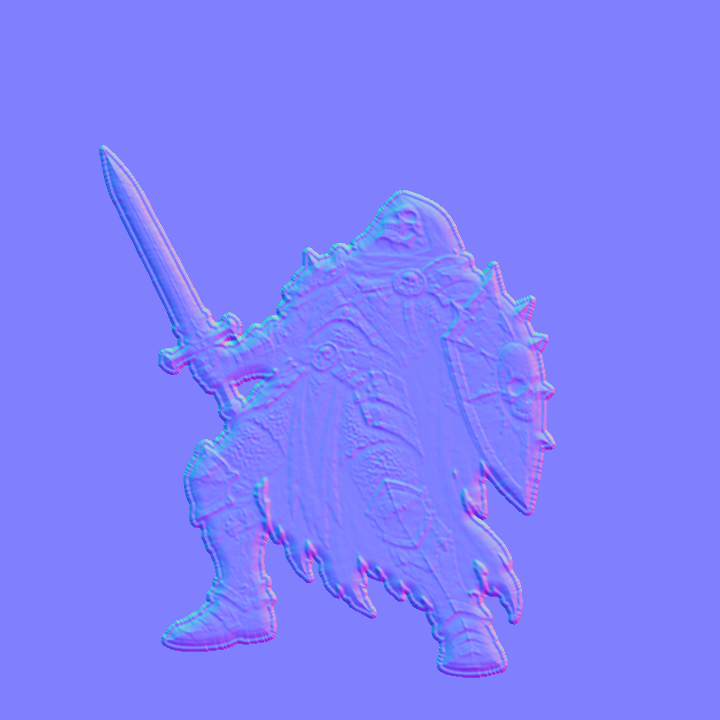
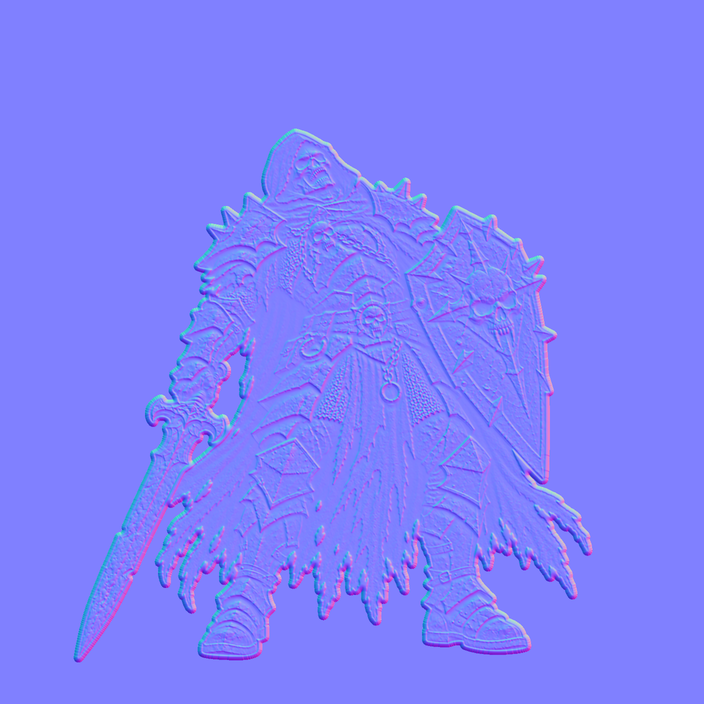
Veilleur Os en haute définition (cinq images), mise à l'échelle automatique des poses

Changed region(s): [[0.0938, 0.1875, 0.8438, 0.9375]]

diff --git a/tools/make_monster.py b/tools/make_monster.py
@@ -1,6 +1,7 @@
 #!/usr/bin/env python3
 """Découpe la PLANCHE d'un monstre « Atlas Noir » et écrit les cinq webp du jeu.
 Usage : python3 tools/make_monster.py <id> planche.png [--sans-liseré]
+     ou : python3 tools/make_monster.py <id> repos.png attaque.png coup.png attaque2.png mort.png   (cinq images, une par pose)
   → assets/monsters/<id>.webp, <id>_attack.webp, <id>_hit.webp, <id>_attack2.webp, <id>_dead.webp (carrés, RGBA, même taille)
     + une carte de normales par pose (<id>_n.webp, <id>_attack_n.webp…) pour l'éclairage en relief (import : compress/normal_map=1, mipmaps).
 
@@ -59,6 +60,58 @@ def split(sheet):
         y0, y1 = max(0, ys.min() - 4), min(al.shape[0], ys.max() + 5)
         x0, x1 = max(0, xs.min() - 4), min(al.shape[1], xs.max() + 5)
         poses.append(clean(rgb[y0:y1, x0:x1], solid[y0:y1, x0:x1], (al * mine)[y0:y1, x0:x1]))
+    return poses
+
+def _scales(files):
+    """Échelle de chaque pose par rapport à l'attente (images dessinées séparément : le monstre n'y a pas toujours la même taille).
+    Appariement de points SIFT sur les détails rigides (crânes, boucles, écailles) + similitude RANSAC ; 1.0 si l'appariement échoue."""
+    try:
+        import cv2
+    except ImportError:
+        print("opencv absent : poses laissées à leur échelle d'origine")
+        return [1.0] * len(files)
+    sift = cv2.SIFT_create(4000)
+    def feat(f):
+        im = cv2.imread(str(f), cv2.IMREAD_UNCHANGED)
+        g = cv2.cvtColor(im[..., :3], cv2.COLOR_BGR2GRAY)
+        return sift.detectAndCompute(g, (im[..., 3] > 200).astype(np.uint8) * 255)
+    k0, d0 = feat(files[0])
+    out = [1.0]
+    for f in files[1:]:
+        k, d = feat(f)
+        sc = 1.0
+        if d is not None and d0 is not None and len(k) > 10:
+            good = [m for m, n in cv2.BFMatcher().knnMatch(d, d0, k=2) if m.distance < 0.75 * n.distance]
+            if len(good) >= 8:
+                src = np.float32([k[m.queryIdx].pt for m in good]); dst = np.float32([k0[m.trainIdx].pt for m in good])
+                M, inl = cv2.estimateAffinePartial2D(src, dst, method=cv2.RANSAC, ransacReprojThreshold=6)
+                if M is not None and inl is not None and int(inl.sum()) >= 10:
+                    sc = float(np.sqrt(abs(np.linalg.det(M[:, :2]))))
+        out.append(sc if 0.8 < sc < 1.25 else 1.0)
+    return out
+
+def split_files(files):
+    """Une image par pose (déjà sur fond transparent), dans l'ordre Attente, Attaque, Impact, Attaque alternative, Mort.
+    Les poses sont remises à l'échelle de l'attente (voir _scales)."""
+    scales = _scales(files)
+    print("échelles des poses (par rapport à l'attente) :", ", ".join("%.3f" % x for x in scales))
+    poses = []
+    for f, sc in zip(files, scales):
+        img = Image.open(f).convert("RGBA")
+        if abs(sc - 1.0) > 0.02:
+            r = img.resize((round(img.width * sc), round(img.height * sc)), Image.LANCZOS)    # LANCZOS sur RGBA prémultiplié : pas de frange
+            pm = np.asarray(img).astype(np.float32) / 255; pm[..., :3] *= pm[..., 3:4]
+            pm = np.asarray(Image.fromarray((pm * 255).astype(np.uint8), "RGBA").resize(r.size, Image.LANCZOS)).astype(np.float32) / 255
+            a_ = pm[..., 3:4]; pm[..., :3] = np.where(a_ > 1e-4, pm[..., :3] / np.maximum(a_, 1e-4), 0)
+            a = np.clip(pm, 0, 1)
+        else:
+            a = np.asarray(img).astype(np.float32) / 255
+        rgb, al = a[..., :3], a[..., 3]
+        mine = al > 0.08
+        ys, xs = np.where(al > 0.5)
+        y0, y1 = max(0, ys.min() - 4), min(al.shape[0], ys.max() + 5)
+        x0, x1 = max(0, xs.min() - 4), min(al.shape[1], xs.max() + 5)
+        poses.append(clean(rgb[y0:y1, x0:x1], (al > 0.5)[y0:y1, x0:x1], (al * mine)[y0:y1, x0:x1]))
     return poses
 
 def clean(rgb, solid, soft):
@@ -127,8 +180,9 @@ def main():
     global KEEP_OUTLINE
     if "--sans-liseré" in sys.argv:
         sys.argv.remove("--sans-liseré"); KEEP_OUTLINE = False
-    mid, sheet = sys.argv[1], sys.argv[2]
-    poses = split(sheet)
+    mid = sys.argv[1]
+    files = sys.argv[2:]
+    poses = split_files(files) if len(files) == 5 else split(files[0])     # 5 images (une par pose) ou une planche
     st = [stats(p[1]) for p in poses]
     idle_cx, idle_h = st[0]["cx"], st[0]["bottom"] - st[0]["top"] + 1
     # carré : tout doit tenir autour du centre de masse de l'attente et entre le sol et le plafond
@@ -150,8 +204,11 @@ def main():
         out = ROOT / "assets/monsters" / f"{mid}{suf}.webp"
         Image.fromarray((canvas * 255 + 0.5).astype(np.uint8), "RGBA").save(out, lossless=True, quality=100, method=6)
         nm = normal_map(canvas[..., :3], canvas[..., 3])
+        nim = Image.fromarray((nm * 255 + 0.5).astype(np.uint8), "RGB")
+        if side > 1000:                                          # le relief n'a pas besoin de la définition du dessin : moitié moins de mémoire vidéo
+            nim = nim.resize((side // 2, side // 2), Image.LANCZOS)
         nout = ROOT / "assets/monsters" / f"{mid}{suf}_n.webp"
-        Image.fromarray((nm * 255 + 0.5).astype(np.uint8), "RGB").save(nout, lossless=True, quality=100, method=6)
+        nim.save(nout, lossless=True, quality=100, method=6)
         print("écrit", out.relative_to(ROOT), "+ normales")
     print(f"carré {side} px ; pose d'attente haute de {idle_h} px = {idle_h / side:.3f} du carré")
 

diff --git a/docs/TECHNIQUE.md b/docs/TECHNIQUE.md
@@ -522,10 +522,11 @@ Après TripoSR, `Converter._bake_command` copie `res://tools_py/bake_texture.py`
 - Anti-scintillement des monstres Atlas Noir : les cinq poses passent par `python3 tools/make_monster.py <id> planche.png` (découpe, liseré blanc « autocollant » conservé, couleurs prolongées sous l'alpha, pieds alignés, aucun flou) ; mipmaps activés dans les `.webp.import` ; `EntityLayer` pose la méta `atlas` (présence de `<id>_attack.webp`) et réduit la respiration à 30 %. `tools/shot_shimmer.gd` mesure la différence moyenne entre images consécutives (de 0,0028 à 0,0018 sur le Veilleur Os). Règle valable pour tous les futurs monstres.
 - Fossoyeur sans visage (`mon_fossoyeur`) : même procédure (make_monster.py, catégorie « Monstres Atlas Noir », `TIER2`, `Resist.FAMILY`, effet « affaiblissement » dans `MonsterEffects.FAMILY`, hauteur `fossoyeur` 1,75 car sa silhouette occupe moins de l'image). Ajouté à la Crypte Profonde (case 7,3) pour l'essai.
 - Monstres Atlas Noir, rendu : images à la résolution d'origine (1536 px, webp sans perte, plus de réduction ni de flou : `make_monster.py`) ; sprites ÉCLAIRÉS (`EntityLayer._lit_material` : ombrage par pixel, rugosité 1, léger auto-éclairage 0,22) donc sensibles à la lumière d'ambiance du niveau, à la torche du groupe et aux lampes ; barre de vie fixe : `CombatStage._pose_envelope` prend le sommet le plus haut de toutes les poses debout (repos, attaques, coup) et la barre s'y pose, sans bouger d'une pose à l'autre.
-- Planches de monstres (format de livraison depuis le 2026-10-31) : une seule image RGBA à fond transparent, un liseré blanc autour de chaque pose, dans l'ordre (haut gauche → bas droite) Attente, Attaque, Impact, Attaque alternative, Mort. `tools/make_monster.py <id> planche.png` découpe les cinq poses (noyaux érodés, chaque pixel rattaché au noyau le plus proche, donc deux liserés qui se touchent ne fusionnent pas), GARDE le liseré blanc des planches (choix de l'auteur ; l'option `--sans-liseré` retire le liseré relié au vide et ses restes piégés dans les pointes de tissu), écarte la poussière, puis recompose les poses à la même échelle dans un carré (pieds sur 94 % de la hauteur, centre de masse de l'attente au milieu), sans agrandissement ni flou : la résolution est celle de la planche (≈ 600 px de haut pour un monstre debout, carré d'environ 770 px). La hauteur affichée se règle par la ligne du monstre dans `EntityLayer.MON_HEIGHTS` (le script affiche la part du carré occupée par la pose d'attente ; ligne = ancienne ligne × ancienne part / nouvelle part : `veilleur` 1,77 (nouvelle planche), `fossoyeur` 1,71). Veilleur Os et Fossoyeur sans visage ont été réimportés ainsi à la place des premières versions.
+- Planches de monstres (format de livraison depuis le 2026-10-31) : une seule image RGBA à fond transparent, un liseré blanc autour de chaque pose, dans l'ordre (haut gauche → bas droite) Attente, Attaque, Impact, Attaque alternative, Mort. `tools/make_monster.py <id> planche.png` découpe les cinq poses (noyaux érodés, chaque pixel rattaché au noyau le plus proche, donc deux liserés qui se touchent ne fusionnent pas), GARDE le liseré blanc des planches (choix de l'auteur ; l'option `--sans-liseré` retire le liseré relié au vide et ses restes piégés dans les pointes de tissu), écarte la poussière, puis recompose les poses à la même échelle dans un carré (pieds sur 94 % de la hauteur, centre de masse de l'attente au milieu), sans agrandissement ni flou : la résolution est celle de la planche (≈ 600 px de haut pour un monstre debout, carré d'environ 770 px). La hauteur affichée se règle par la ligne du monstre dans `EntityLayer.MON_HEIGHTS` (le script affiche la part du carré occupée par la pose d'attente ; ligne = ancienne ligne × ancienne part / nouvelle part : `veilleur` 1,59 (3e version), `fossoyeur` 1,71). Veilleur Os et Fossoyeur sans visage ont été réimportés ainsi à la place des premières versions.
 - Veuve des Cryptes (`mon_veuve`) et Porte-Cercueil (`mon_porte_cercueil`) : intégrés comme le Fossoyeur, depuis leurs planches (liseré blanc conservé). Hauteurs `MON_HEIGHTS` : `veuve` 1,74, `cercueil` 1,5 (carrés de 736 et 784 px). `DungeonGenerator.TIER2`, catégorie d'icônes « Monstres Atlas Noir », `Resist.FAMILY` (veuve : ombre, nature, faible au sacré et au feu ; porte-cercueil : ombre, physique, faible au sacré et au feu), `MonsterEffects.FAMILY` (veuve : poison 40 % / 3 tours ; porte-cercueil : étourdissement 20 % / 1 tour). Donjon d'origine : `cercueil1` en (10,1) à la Crypte Profonde, `veuve1` en (7,3) au Sanctuaire Interdit.
 - Éclairage des monstres Atlas Noir (2026-10-31) : en plus du matériau éclairé, `make_monster.py` écrit une carte de normales par pose (`<id>[_attack|_attack2|_hit|_dead]_n.webp`, relief tiré de la luminance du dessin + silhouette arrondie sur 16 px ; imports `compress/normal_map=1`, mipmaps, sans perte). `EntityLayer._lit_material` la charge si elle existe (`normal_texture`) et ajoute un liseré de lumière (`rim` 0,25) : la torche et les lampes sculptent le monstre au lieu de l'éclairer à plat. Mort : la pose « à terre » reprenait l'auto-éclairage (`emission_texture`) de la pose debout, d'où un voile clair sur le corps ; elle prend maintenant les textures de la pose à terre, et l'auto-éclairage et le liseré s'éteignent avec le fondu. `tools/shot_veilleur.gd` capture aussi une image à mi-fondu (`_fade.png`).
 - File d'initiative et monstres Atlas Noir : le monstre entier y était illisible (une silhouette de 50 px). `EntityLayer.BUSTS` (id → centre x, centre y, demi-côté, en fractions de l'image d'attente) donne le cadrage du visage ; `EntityLayer.bust_texture` découpe cette zone, la réduit à 192 px (Lanczos) avec mipmaps et la met en cache ; `QueueBar` l'affiche en médaillon rond à anneau rouge (les héros ont l'anneau doré), filtrage `LINEAR_WITH_MIPMAPS_ANISOTROPIC` pour éviter le crépitement. **À renseigner pour chaque nouveau monstre** (sans entrée, l'ancienne vignette plein corps est utilisée). Cadrages actuels : Veilleur Os, Fossoyeur, Veuve des Cryptes, Porte-Cercueil.
 - Donjon de test « Atlas Noir » : onglet Tests du panneau super admin, section « Test local » (bouton « Test — Atlas Noir »). Partie aléatoire locale de 4 niveaux 15×13, difficulté normale, hors ligne, hors classement, sans essai consommé, titre « Test Atlas Noir ». `DungeonGenerator.atlas_only` fait que `pick_tiered_monster` ne tire que dans `atlas_pool()`, c'est-à-dire la catégorie d'icônes « Monstres Atlas Noir » de `ICON_CATALOG` : tout nouveau monstre ajouté à cette catégorie y entre sans autre réglage. Les boss restent les anciens tant qu'aucun boss Atlas Noir n'existe. Vérification automatique : `godot --headless --path . res://tools/check_atlas_test.tscn` (aucun monstre hors catégorie sur un donjon généré).
 - Cascades animées de l'accueil : `HomeScreen.WATERFALL_SHADER` (canvas_item additif) posé sur l'image de fond avec le même cadrage « cover » que les flammes (`_make_waterfalls`, `_layout_flames`). Filets d'eau = bruit de valeur étiré en hauteur, trois couches à vitesses différentes qui descendent (vitesses en pixels du fond par seconde), léger scintillement. Le masque `assets/home/waterfall_mask.png` (1920×1080) est produit par `tools/make_waterfall_mask.py` : polygones tracés à la main sur `home_bg.png` (grande chute, petite chute, filets, brume du fond) multipliés par la clarté locale de l'image, donc seule l'eau déjà claire s'anime. Si le fond change, retracer les polygones du script. `tools/shot_home.gd` prend maintenant deux images à 0,6 s d'écart pour vérifier le mouvement.
 - Veilleur Os, 2e version (2026-10-31) : planche d'une seule rangée de cinq poses (2172×724) qui remplace la première, importée sans réduction ni flou (pose d'attente ≈ 535 px de haut, carré de 720 px ; la pose d'attaque épée levée fixe la taille du carré). `make_monster.py` détecte seul une planche large (plus de 2,2 fois plus large que haute) et ordonne les poses de gauche à droite. Ligne `veilleur` de `MON_HEIGHTS` ramenée à 1,77 et cadrage du buste `[0.50, 0.29, 0.12]`.
+- Veilleur Os, 3e version (2026-10-31, haute définition) : cinq images séparées (≈ 1250 px, pose d'attente haute de 1164 px dans un carré de 1408 px, webp sans perte, environ 7 Mo en tout). `make_monster.py <id> repos attaque coup attaque2 mort` accepte désormais cinq images (en plus d'une planche) : comme chaque pose est dessinée à part, `_scales` retrouve leur échelle relative à l'attente par appariement de points SIFT sur les détails rigides (crânes, boucles, écailles) et une similitude RANSAC (OpenCV, facultatif ; échelles du Veilleur : 1,014 / 0,951 / 0,921 / 1,077), puis les remet à la même taille (Lanczos en alpha prémultiplié, seulement si l'écart dépasse 2 %). Les cartes de normales sont enregistrées à moitié de la définition quand le carré dépasse 1000 px (le relief n'en a pas besoin ; mémoire vidéo divisée par deux pour elles). Ligne `veilleur` de `MON_HEIGHTS` : 1,59 ; buste `[0.49, 0.265, 0.12]`.
